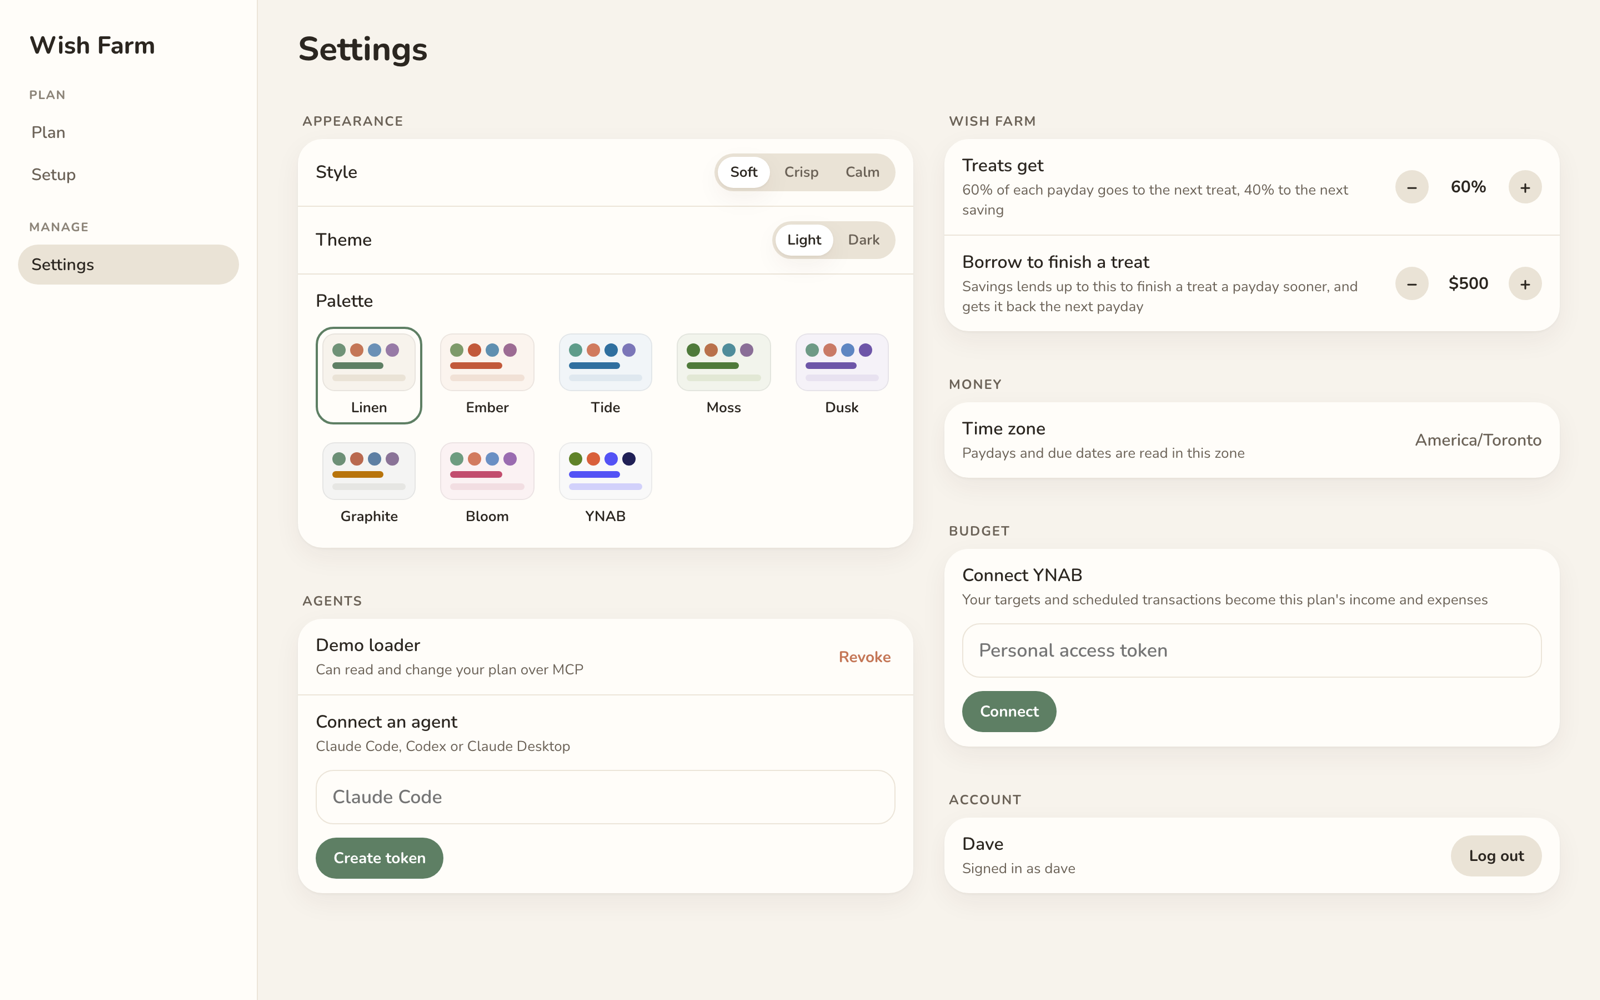
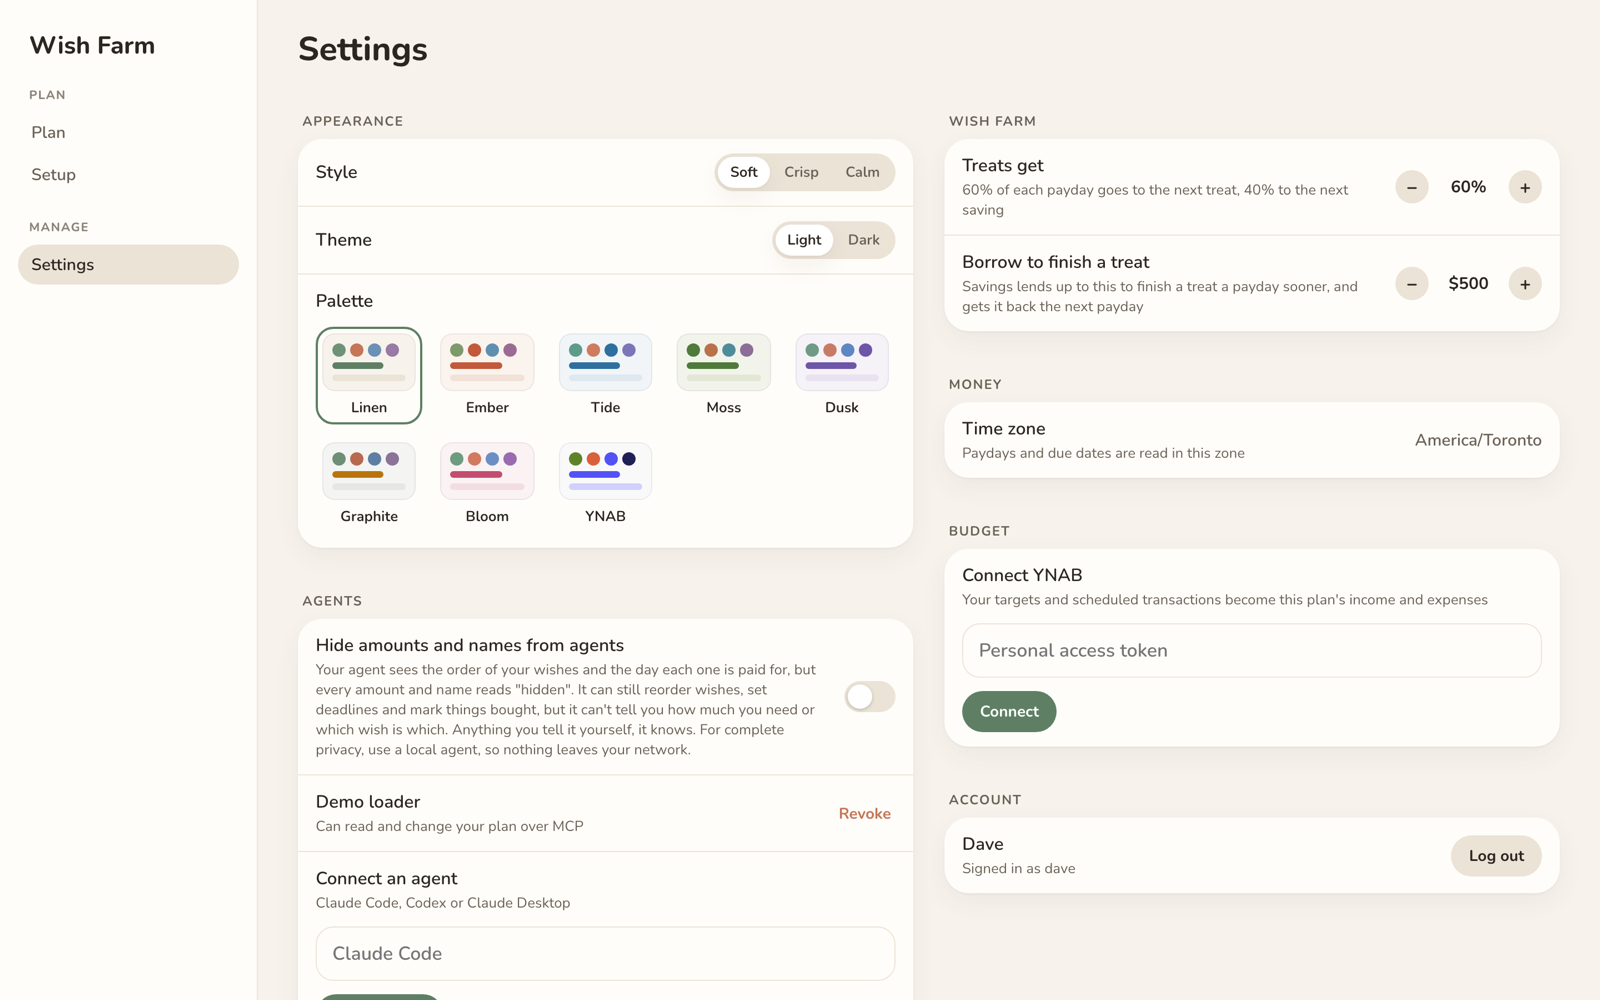
README and slides: what an agent can see, and hiding amounts and names from agents

diff --git a/README.md b/README.md
@@ -158,6 +158,47 @@ What an agent can reach:
 
 The agent works through the same rules as the app. Every change is checked the way a form would check it, and the plan recalculates the same way. Every plan in this demo was entered through these tools.
 
+### What an agent can and can't see
+
+An agent only ever talks to Wish Farm, never to YNAB. It sees your plan: income and expenses (names, amounts, dates), cash, your wishes and how much is saved toward each, and the forecast. It never sees a transaction (Wish Farm doesn't read them), your account balances, other categories, or your YNAB token.
+
+Only Wish Farm writes to YNAB, and only the changes listed above. An agent can change your plan, but it can't reach into YNAB itself.
+
+Two things to know:
+
+- **Connect YNAB in the browser, not in a chat.** If you paste your YNAB token to an agent, it's in that conversation.
+- **Anything you tell an agent, it knows.** That's true in every mode below.
+
+### Hiding your numbers from agents
+
+If you'd rather your agent didn't see your money at all, switch on **Hide amounts and names from agents** in Settings.
+
+<img src="docs/images/09-hide-from-agents.png" width="70%" alt="The switch in Settings">
+
+From then on, every amount and every name in an agent's answers reads "hidden". It still sees the order of your wishes and the day each one is paid for:
+
+```json
+{
+  "wishes": [
+    { "name": "hidden", "cost": { "_tag": "Fixed", "amount": "hidden" }, "kind": "treat", "priority": 1 },
+    { "name": "hidden", "cost": { "_tag": "PaysOff", "expenseId": "01a1714d-…" }, "kind": "saving", "priority": 2 }
+  ],
+  "cash": { "cash": "hidden", "floor": "hidden", "countedOn": "2026-10-25" },
+  "funded": [
+    { "name": "hidden", "day": "2026-11-13" },
+    { "name": "hidden", "day": "2027-01-14" }
+  ]
+}
+```
+
+That limits what it can do for you:
+
+- It can still add wishes and expenses you describe, reorder wishes, set deadlines, mark things bought, change the treat/saving split and refresh from YNAB.
+- It can't tell you how much you need, how much you have, or which wish is which. "Speed up my car wish" in a new conversation gets "I can't tell which wish that is while amounts and names are hidden."
+- The browser and YNAB keep seeing the real numbers. Only what goes out to agents changes, and the switch is checked on every request, so an agent can't get around it.
+
+For complete privacy, run a local agent (a model on your own machine), so nothing leaves your network.
+
 ## Running it
 
 Wish Farm runs as a single small server with its own database, in your browser on desktop and phone. It works without YNAB too: you enter your income and expenses in Setup yourself. You can sign in with a username and password, or with your own single sign-on.

diff --git a/docs/slides/01.md b/docs/slides/01.md
@@ -1,6 +1,6 @@
 # A plan for the money after your bills
 
-[← README](../../README.md) &nbsp;·&nbsp; 1 of 12 &nbsp;·&nbsp; [Next →](02.md)
+[← README](../../README.md) &nbsp;·&nbsp; 1 of 13 &nbsp;·&nbsp; [Next →](02.md)
 
 <p>
 <img src="../images/02-timeline.png" width="100%" alt="A plan for the money after your bills">
@@ -8,4 +8,4 @@
 
 Dave earns about $100k and wants a Mac mini, a Onewheel and a studio display, and to clear a credit card and build savings. Each payday shows what came in, what the bills need before the next one, and where every remaining dollar goes.
 
-[← README](../../README.md) &nbsp;·&nbsp; 1 of 12 &nbsp;·&nbsp; [Next →](02.md)
+[← README](../../README.md) &nbsp;·&nbsp; 1 of 13 &nbsp;·&nbsp; [Next →](02.md)

diff --git a/docs/slides/13.md b/docs/slides/13.md
@@ -1,0 +1,11 @@
+# Keep your numbers from agents
+
+[← Back](12.md) &nbsp;·&nbsp; 13 of 13 &nbsp;·&nbsp; [Back to the README →](../../README.md)
+
+<p>
+<img src="../images/09-hide-from-agents.png" width="100%" alt="Hide amounts and names from agents">
+</p>
+
+One switch in Settings, and every amount and name an agent gets back reads "hidden". It still sees the order of your wishes and the day each one is paid for, so it can reorder, set deadlines and mark things bought, but it can't tell you how much or which is which. The browser and YNAB keep the real numbers. For complete privacy, use a local agent.
+
+[← Back](12.md) &nbsp;·&nbsp; 13 of 13 &nbsp;·&nbsp; [Back to the README →](../../README.md)

diff --git a/docs/slides/12.md b/docs/slides/12.md
@@ -1,7 +1,7 @@
 # What it does in YNAB
 
-[← Back](11.md) &nbsp;·&nbsp; 12 of 12 &nbsp;·&nbsp; [Back to the README →](../../README.md)
+[← Back](11.md) &nbsp;·&nbsp; 12 of 13 &nbsp;·&nbsp; [Next →](13.md)
 
 Every hour: it sets a target only on the wishes it's funding this month, for exactly what the plan puts in, and clears the rest. When a debt is paid off, it moves the category to Wish Farm Complete and removes the debt's scheduled transaction. It never touches anything else, and it's safe if YNAB is slow or down.
 
-[← Back](11.md) &nbsp;·&nbsp; 12 of 12 &nbsp;·&nbsp; [Back to the README →](../../README.md)
+[← Back](11.md) &nbsp;·&nbsp; 12 of 13 &nbsp;·&nbsp; [Next →](13.md)

diff --git a/docs/slides/09.md b/docs/slides/09.md
@@ -1,6 +1,6 @@
 # …and the plan recalculates
 
-[← Back](08.md) &nbsp;·&nbsp; 9 of 12 &nbsp;·&nbsp; [Next →](10.md)
+[← Back](08.md) &nbsp;·&nbsp; 9 of 13 &nbsp;·&nbsp; [Next →](10.md)
 
 <p>
 <img src="../images/overspend-after.png" width="100%" alt="…and the plan recalculates">
@@ -8,4 +8,4 @@
 
 A weekend away leaves Dave $600 short. His next paycheque covers the gap first, and the Mac mini moves to Dec 14. With YNAB connected, this happens on its own within the hour.
 
-[← Back](08.md) &nbsp;·&nbsp; 9 of 12 &nbsp;·&nbsp; [Next →](10.md)
+[← Back](08.md) &nbsp;·&nbsp; 9 of 13 &nbsp;·&nbsp; [Next →](10.md)

diff --git a/docs/slides/02.md b/docs/slides/02.md
@@ -1,6 +1,6 @@
 # One thing at a time
 
-[← Back](01.md) &nbsp;·&nbsp; 2 of 12 &nbsp;·&nbsp; [Next →](03.md)
+[← Back](01.md) &nbsp;·&nbsp; 2 of 13 &nbsp;·&nbsp; [Next →](03.md)
 
 <p>
 <img src="../images/02-timeline.png" width="100%" alt="One thing at a time">
@@ -8,4 +8,4 @@
 
 Most of each payday goes to the next treat and the rest to the next saving, one at a time, in Dave's order. The Mac mini fills on Nov 13 (Full 🎉), and the Onewheel starts the same day.
 
-[← Back](01.md) &nbsp;·&nbsp; 2 of 12 &nbsp;·&nbsp; [Next →](03.md)
+[← Back](01.md) &nbsp;·&nbsp; 2 of 13 &nbsp;·&nbsp; [Next →](03.md)

diff --git a/docs/slides/06.md b/docs/slides/06.md
@@ -1,6 +1,6 @@
 # Doug and Sally
 
-[← Back](05.md) &nbsp;·&nbsp; 6 of 12 &nbsp;·&nbsp; [Next →](07.md)
+[← Back](05.md) &nbsp;·&nbsp; 6 of 13 &nbsp;·&nbsp; [Next →](07.md)
 
 <p>
 <img src="../images/person-doug.png" width="49%" alt="Doug and Sally">
@@ -9,4 +9,4 @@
 
 Doug gets his fishing gear today and a fish finder in November, then saves toward a boat. Sally gets a weekend in Montréal before December and has Japan paid for by February.
 
-[← Back](05.md) &nbsp;·&nbsp; 6 of 12 &nbsp;·&nbsp; [Next →](07.md)
+[← Back](05.md) &nbsp;·&nbsp; 6 of 13 &nbsp;·&nbsp; [Next →](07.md)

diff --git a/docs/slides/07.md b/docs/slides/07.md
@@ -1,6 +1,6 @@
 # Sue and Marcus
 
-[← Back](06.md) &nbsp;·&nbsp; 7 of 12 &nbsp;·&nbsp; [Next →](08.md)
+[← Back](06.md) &nbsp;·&nbsp; 7 of 13 &nbsp;·&nbsp; [Next →](08.md)
 
 <p>
 <img src="../images/person-sue.png" width="49%" alt="Sue and Marcus">
@@ -9,4 +9,4 @@
 
 Sue's deadlines (summer camp, braces, back to school) are spread over the paydays before them. Marcus's plan warns him early that his FHSA 2026 won't be full by December 31.
 
-[← Back](06.md) &nbsp;·&nbsp; 7 of 12 &nbsp;·&nbsp; [Next →](08.md)
+[← Back](06.md) &nbsp;·&nbsp; 7 of 13 &nbsp;·&nbsp; [Next →](08.md)

diff --git a/docs/slides/03.md b/docs/slides/03.md
@@ -1,6 +1,6 @@
 # Debts that end free up money
 
-[← Back](02.md) &nbsp;·&nbsp; 3 of 12 &nbsp;·&nbsp; [Next →](04.md)
+[← Back](02.md) &nbsp;·&nbsp; 3 of 13 &nbsp;·&nbsp; [Next →](04.md)
 
 <p>
 <img src="../images/03-debt-ends.png" width="100%" alt="Debts that end free up money">
@@ -8,4 +8,4 @@
 
 Marcus pays off his car in June 2027. From then on, that $420 a month goes to his wishes, which here means his FHSA.
 
-[← Back](02.md) &nbsp;·&nbsp; 3 of 12 &nbsp;·&nbsp; [Next →](04.md)
+[← Back](02.md) &nbsp;·&nbsp; 3 of 13 &nbsp;·&nbsp; [Next →](04.md)

diff --git a/docs/slides/04.md b/docs/slides/04.md
@@ -1,6 +1,6 @@
 # The same plan, by month
 
-[← Back](03.md) &nbsp;·&nbsp; 4 of 12 &nbsp;·&nbsp; [Next →](05.md)
+[← Back](03.md) &nbsp;·&nbsp; 4 of 13 &nbsp;·&nbsp; [Next →](05.md)
 
 <p>
 <img src="../images/04-calendar.png" width="100%" alt="The same plan, by month">
@@ -8,4 +8,4 @@
 
 The calendar shows each month's money in, money out and what went to wishes, with the timeline alongside.
 
-[← Back](03.md) &nbsp;·&nbsp; 4 of 12 &nbsp;·&nbsp; [Next →](05.md)
+[← Back](03.md) &nbsp;·&nbsp; 4 of 13 &nbsp;·&nbsp; [Next →](05.md)

diff --git a/docs/slides/08.md b/docs/slides/08.md
@@ -1,6 +1,6 @@
 # Then Dave overspends
 
-[← Back](07.md) &nbsp;·&nbsp; 8 of 12 &nbsp;·&nbsp; [Next →](09.md)
+[← Back](07.md) &nbsp;·&nbsp; 8 of 13 &nbsp;·&nbsp; [Next →](09.md)
 
 <p>
 <img src="../images/overspend-before.png" width="100%" alt="Then Dave overspends">
@@ -8,4 +8,4 @@
 
 Before: the $1,200 Dave has on hand goes straight to three wishes, and the Mac mini is paid for on Nov 13.
 
-[← Back](07.md) &nbsp;·&nbsp; 8 of 12 &nbsp;·&nbsp; [Next →](09.md)
+[← Back](07.md) &nbsp;·&nbsp; 8 of 13 &nbsp;·&nbsp; [Next →](09.md)

diff --git a/docs/slides/11.md b/docs/slides/11.md
@@ -1,6 +1,6 @@
 # Two dials
 
-[← Back](10.md) &nbsp;·&nbsp; 11 of 12 &nbsp;·&nbsp; [Next →](12.md)
+[← Back](10.md) &nbsp;·&nbsp; 11 of 13 &nbsp;·&nbsp; [Next →](12.md)
 
 <p>
 <img src="../images/06-settings.png" width="100%" alt="Two dials">
@@ -8,4 +8,4 @@
 
 How much of each payday goes to treats (60% here), and how much savings can lend to finish a treat a payday sooner ($500 here).
 
-[← Back](10.md) &nbsp;·&nbsp; 11 of 12 &nbsp;·&nbsp; [Next →](12.md)
+[← Back](10.md) &nbsp;·&nbsp; 11 of 13 &nbsp;·&nbsp; [Next →](12.md)
